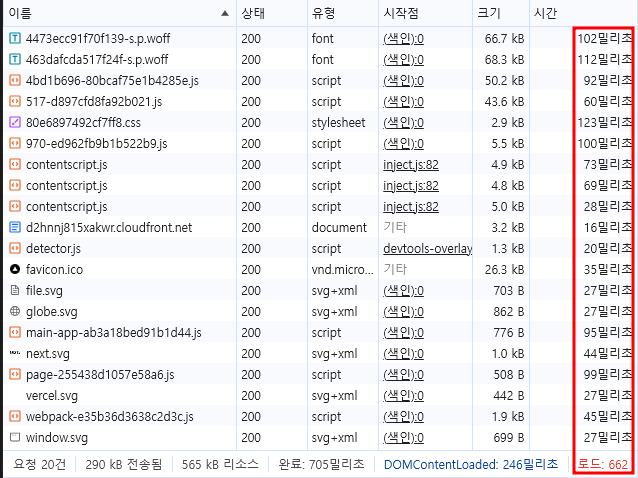
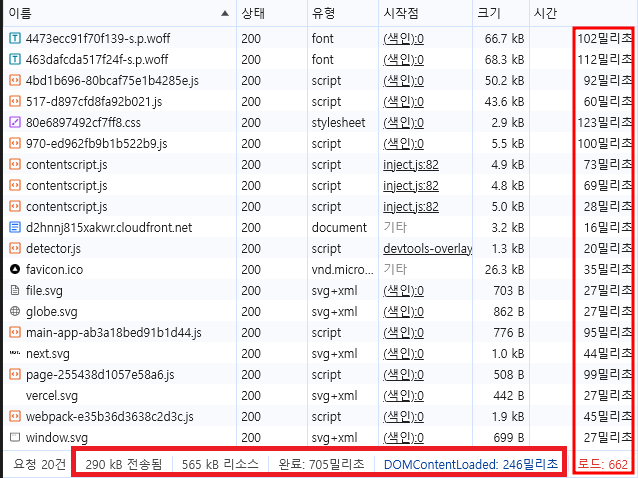
성능 개선 수정

Changed region(s): [[0.0893, 0.9079, 0.8934, 1.0]]

diff --git a/cdn-comparison-report.md b/cdn-comparison-report.md
@@ -61,12 +61,16 @@
 
 ![alt text](<./src/app/img/CDN 네트워크.png>)
 
-| 대상 | 성능 (속도) |
-| ---- | ----------- |
-| S3   | 1.63초      |
-| CDN  | 0.662초     |
+- 전송된 데이터 : 다운로드된 데이터의 총 크기.
+- 페이지 완료 시간 : 리소스가 페이지에 완전히 로드되고 렌더링되는 데 걸리는 총 시간.
+- DOMContentLoaded : 스타일시트, 이미지 및 하위 프레임 로드가 완료될 때까지 기다리지 않고 HTML 문서가 완전히 로드되고 구문 분석되는 데 걸리는 시간.
+- 페이지 로드 : 이미지 및 스타일시트와 같은 모든 리소스를 포함하여 페이지를 완전히 로드하는 데 걸리는 총 시간
 
-- CDN을 이용한 최적화가 S3를 사용한 것 보다 약 59.39%의 성능 향상을 보임.
+|           | 전송된 데이터 | 페이지 완료 시간 | DOMContentLoaded | 페이지 로드 |
+| --------- | ------------- | ---------------- | ---------------- | ----------- |
+| S3        | 572 KB        | 1.85초           | 0.719초          | 1.63초      |
+| CDN       | 290 KB        | 0.705초          | 0.246초          | 0.662초     |
+| 개선율(%) | 49.30         | 61.89            | 65.78            | 59.38       |
 
 ## 결론
 
